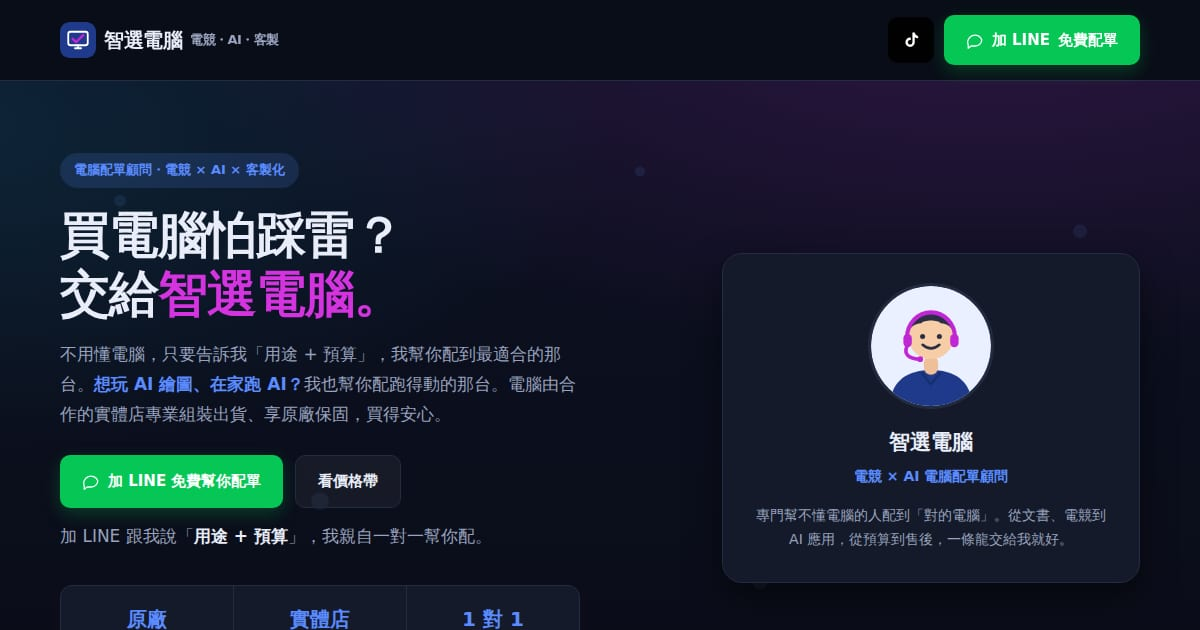
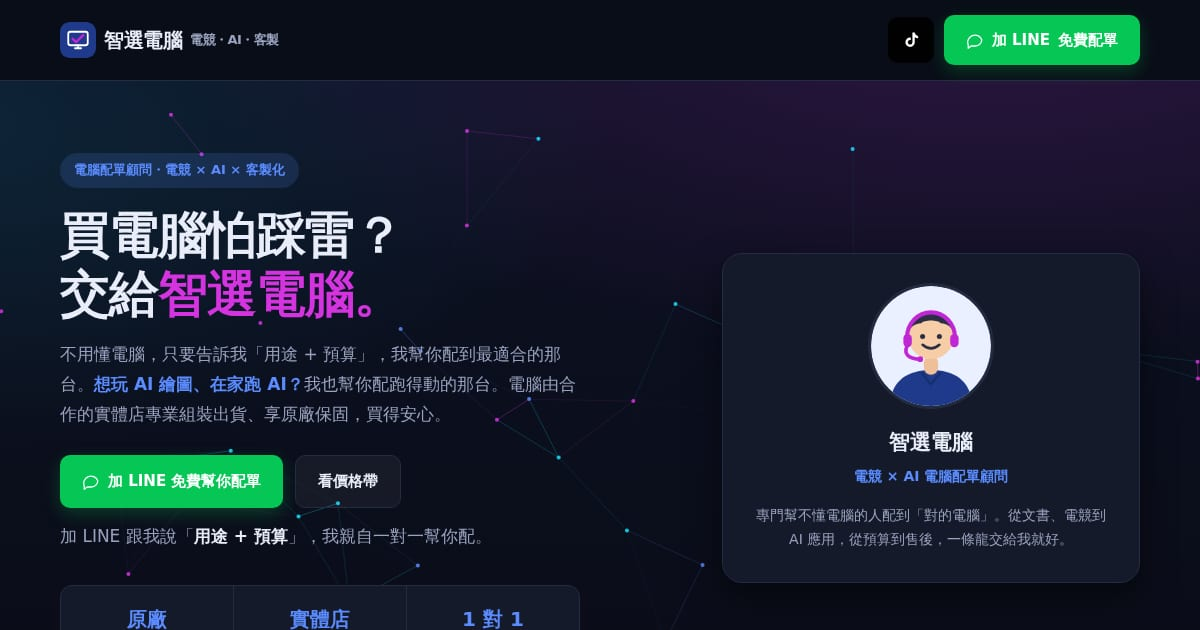
Add animated AI neural-network visual to the hero
Replace the static hero dots with a lightweight canvas particle network
(moving nodes + proximity lines in cyan/magenta/blue) for an AI/tech feel
with more visual life. Respects prefers-reduced-motion; regenerate OG image.

Claude-Session: https://claude.ai/code/session_01PZeA3xSb67fGZJ2yFshBEd

diff --git a/docs/index.html b/docs/index.html
@@ -79,6 +79,7 @@
     /* 主視覺 */
     .hero { position: relative; overflow: hidden; padding: 72px 0 64px; background: radial-gradient(820px 360px at 82% -12%, rgba(214,51,224,.16), transparent), radial-gradient(680px 320px at -5% 8%, rgba(22,224,255,.10), transparent), linear-gradient(180deg, #0c1022, var(--bg)); border-bottom: 1px solid var(--line); }
     .hero-bg { position: absolute; inset: 0; z-index: 0; pointer-events: none; }
+    .hero-net { position: absolute; inset: 0; z-index: 0; pointer-events: none; opacity: .9; }
     .hero .wrap { position: relative; z-index: 1; }
     .hero-grid { display: grid; grid-template-columns: 1.25fr .85fr; gap: 48px; align-items: center; }
     .eyebrow { display: inline-block; color: var(--brand); background: var(--brand-soft); font-weight: 700; font-size: 13px; padding: 6px 14px; border-radius: 999px; }
@@ -288,19 +289,8 @@
 
   <!-- 主視覺 -->
   <section class="hero">
-    <!-- 背景:緩緩漂浮的小圓點(SVG，輕巧不卡) -->
-    <svg class="hero-bg" viewBox="0 0 1200 600" preserveAspectRatio="xMidYMid slice" aria-hidden="true">
-      <g fill="#6ea8ff">
-        <circle cx="120" cy="120" r="6" opacity="0.10"><animate attributeName="cy" values="120;90;120" dur="9s" repeatCount="indefinite"/></circle>
-        <circle cx="320" cy="420" r="9" opacity="0.08"><animate attributeName="cy" values="420;460;420" dur="11s" repeatCount="indefinite"/></circle>
-        <circle cx="640" cy="90" r="5" opacity="0.10"><animate attributeName="cy" values="90;130;90" dur="8s" repeatCount="indefinite"/></circle>
-        <circle cx="900" cy="300" r="11" opacity="0.07"><animate attributeName="cy" values="300;260;300" dur="13s" repeatCount="indefinite"/></circle>
-        <circle cx="1080" cy="150" r="7" opacity="0.09"><animate attributeName="cy" values="150;190;150" dur="10s" repeatCount="indefinite"/></circle>
-        <circle cx="1130" cy="470" r="5" opacity="0.10"><animate attributeName="cy" values="470;430;470" dur="12s" repeatCount="indefinite"/></circle>
-        <circle cx="480" cy="540" r="6" opacity="0.08"><animate attributeName="cy" values="540;500;540" dur="9.5s" repeatCount="indefinite"/></circle>
-        <circle cx="760" cy="500" r="8" opacity="0.07"><animate attributeName="cy" values="500;540;500" dur="14s" repeatCount="indefinite"/></circle>
-      </g>
-    </svg>
+    <!-- 背景:AI 神經網路節點 + 連線(動態可視覺化) -->
+    <canvas class="hero-net" id="heroNet" aria-hidden="true"></canvas>
     <div class="wrap hero-grid">
       <div>
         <span class="eyebrow reveal">電腦配單顧問・電競 × AI × 客製化</span>
@@ -573,6 +563,56 @@
   <script>
     const io = new IntersectionObserver((es)=>{for(const e of es){if(e.isIntersecting){e.target.classList.add("show");io.unobserve(e.target);}}},{threshold:.12});
     document.querySelectorAll(".reveal").forEach((el)=>io.observe(el));
+
+    // AI 神經網路可視覺化(節點 + 連線),純原生 canvas、輕量
+    (function(){
+      const c = document.getElementById("heroNet");
+      if (!c) return;
+      const hero = c.parentElement, ctx = c.getContext("2d");
+      const COLORS = ["#16e0ff", "#d633e0", "#5b8cff"];
+      let w, h, nodes, raf, dpr = Math.min(window.devicePixelRatio || 1, 2);
+      const reduce = matchMedia("(prefers-reduced-motion: reduce)").matches;
+      function size(){
+        w = hero.offsetWidth; h = hero.offsetHeight;
+        c.width = w * dpr; c.height = h * dpr; c.style.width = w + "px"; c.style.height = h + "px";
+        ctx.setTransform(dpr, 0, 0, dpr, 0, 0);
+      }
+      function init(){
+        size();
+        const n = Math.max(22, Math.min(54, Math.floor(w / 24)));
+        nodes = [];
+        for (let i = 0; i < n; i++) nodes.push({
+          x: Math.random()*w, y: Math.random()*h,
+          vx: (Math.random()-.5)*.4, vy: (Math.random()-.5)*.4,
+          col: COLORS[i % COLORS.length]
+        });
+      }
+      function frame(){
+        ctx.clearRect(0,0,w,h);
+        for (let i=0;i<nodes.length;i++){
+          const a = nodes[i];
+          a.x += a.vx; a.y += a.vy;
+          if (a.x<0||a.x>w) a.vx*=-1;
+          if (a.y<0||a.y>h) a.vy*=-1;
+          for (let j=i+1;j<nodes.length;j++){
+            const b = nodes[j], dx=a.x-b.x, dy=a.y-b.y, d=Math.hypot(dx,dy);
+            if (d < 140){
+              ctx.globalAlpha = (1 - d/140) * 0.45;
+              ctx.strokeStyle = a.col; ctx.lineWidth = 1;
+              ctx.beginPath(); ctx.moveTo(a.x,a.y); ctx.lineTo(b.x,b.y); ctx.stroke();
+            }
+          }
+        }
+        for (const a of nodes){
+          ctx.globalAlpha = .95; ctx.fillStyle = a.col;
+          ctx.beginPath(); ctx.arc(a.x, a.y, 2, 0, 6.3); ctx.fill();
+        }
+        ctx.globalAlpha = 1;
+        if (!reduce) raf = requestAnimationFrame(frame);
+      }
+      init(); frame();
+      let t; addEventListener("resize", ()=>{ clearTimeout(t); t=setTimeout(init, 200); });
+    })();
   </script>
 
 </body>
